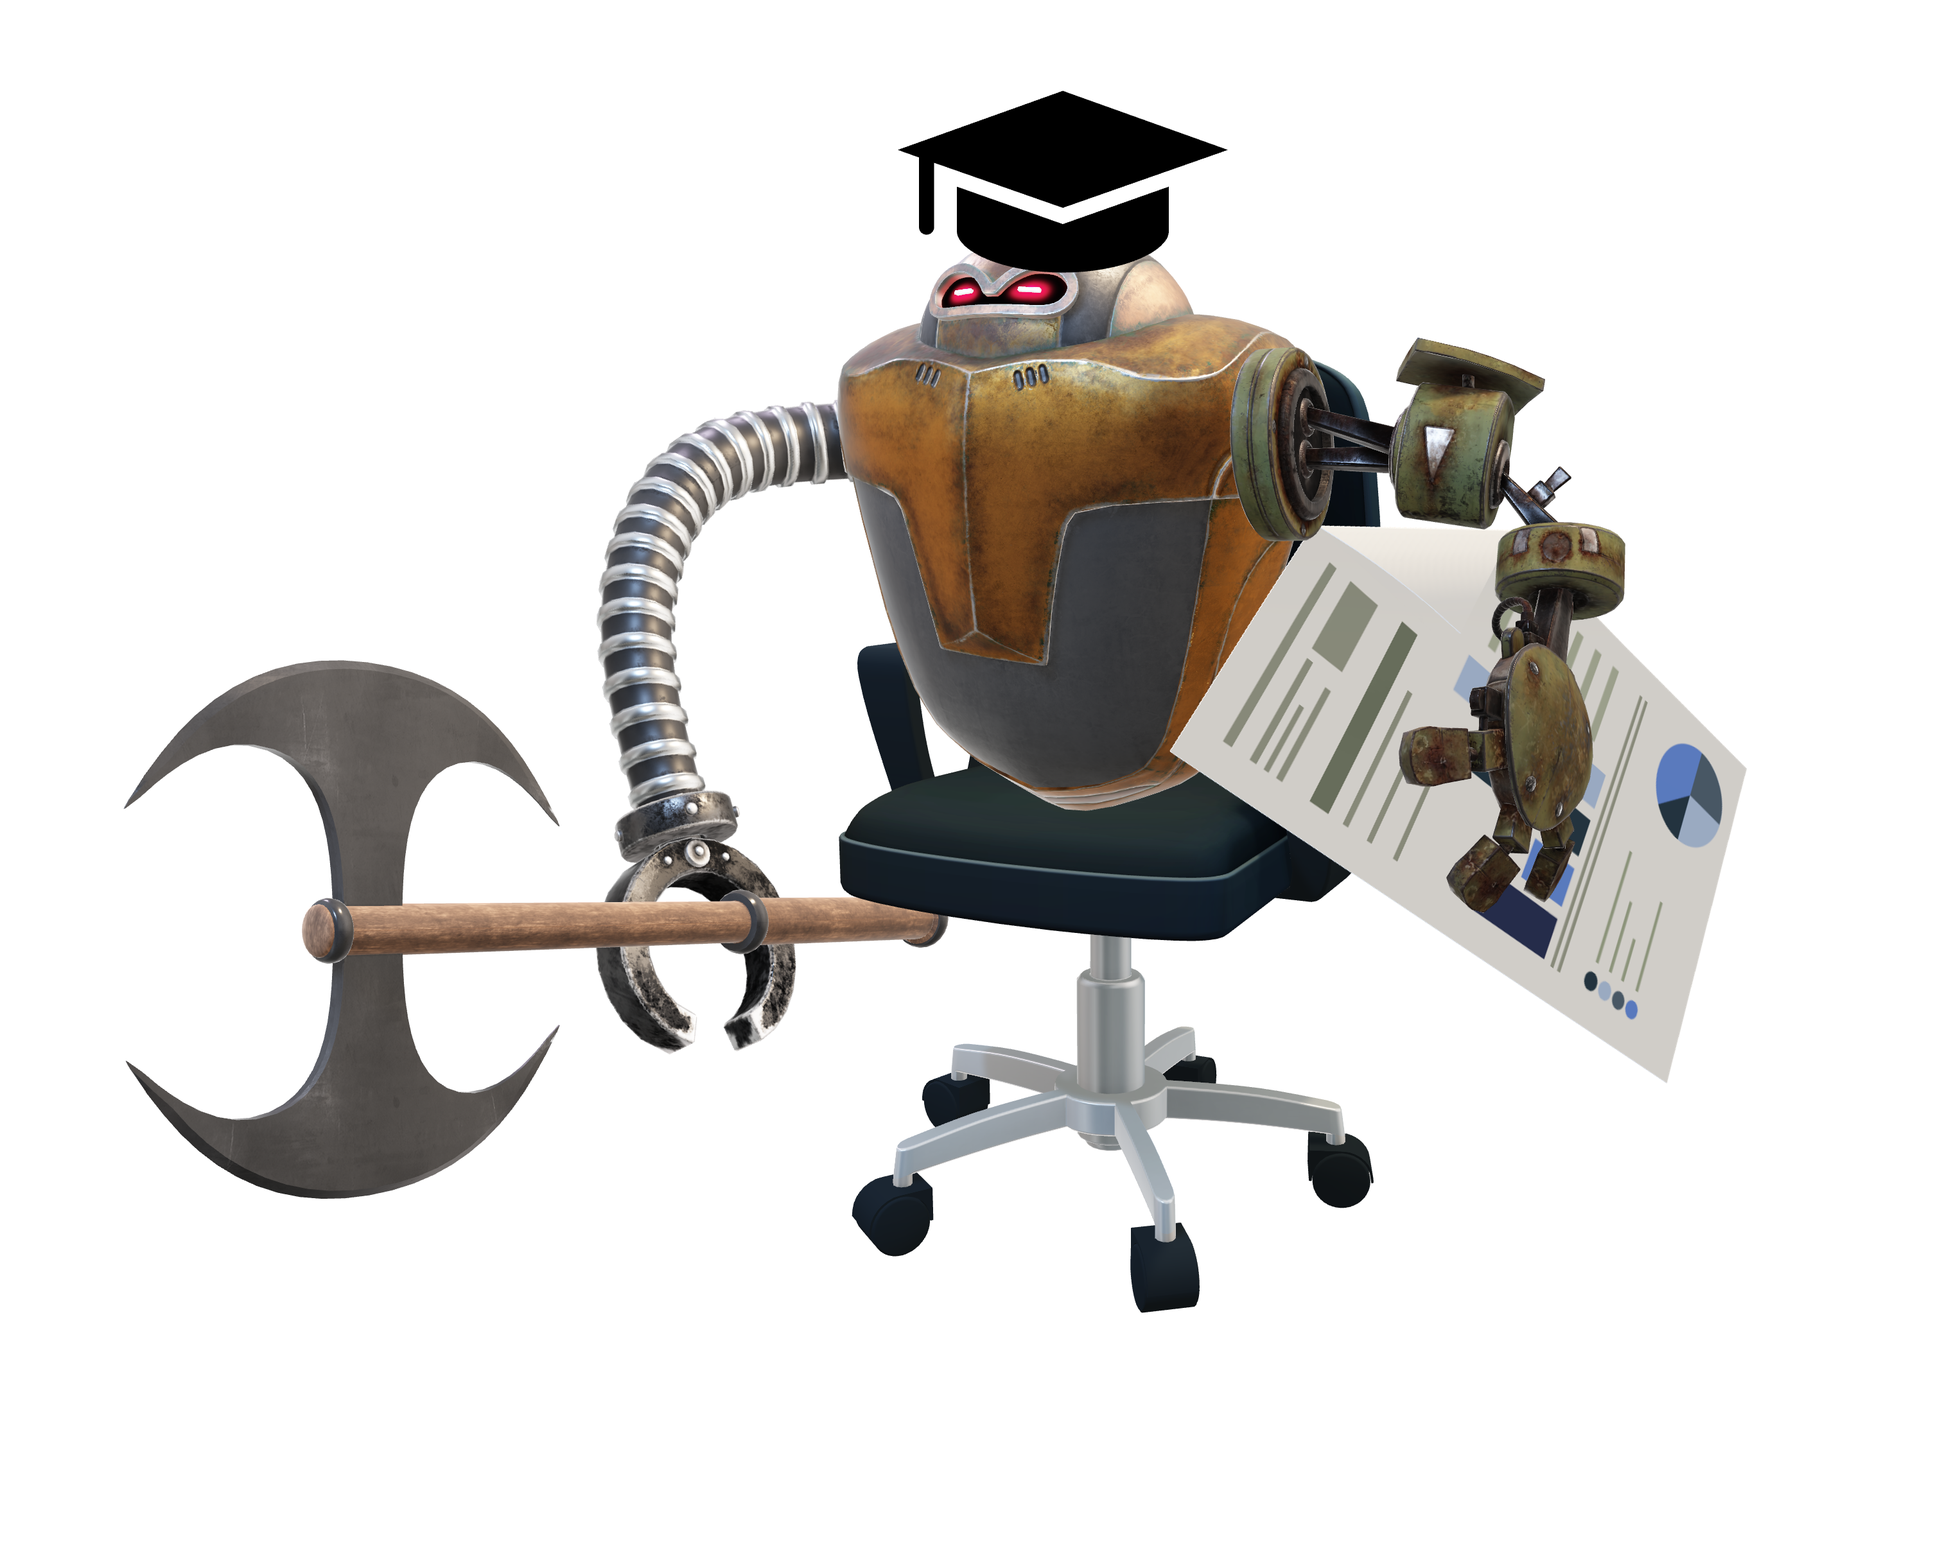
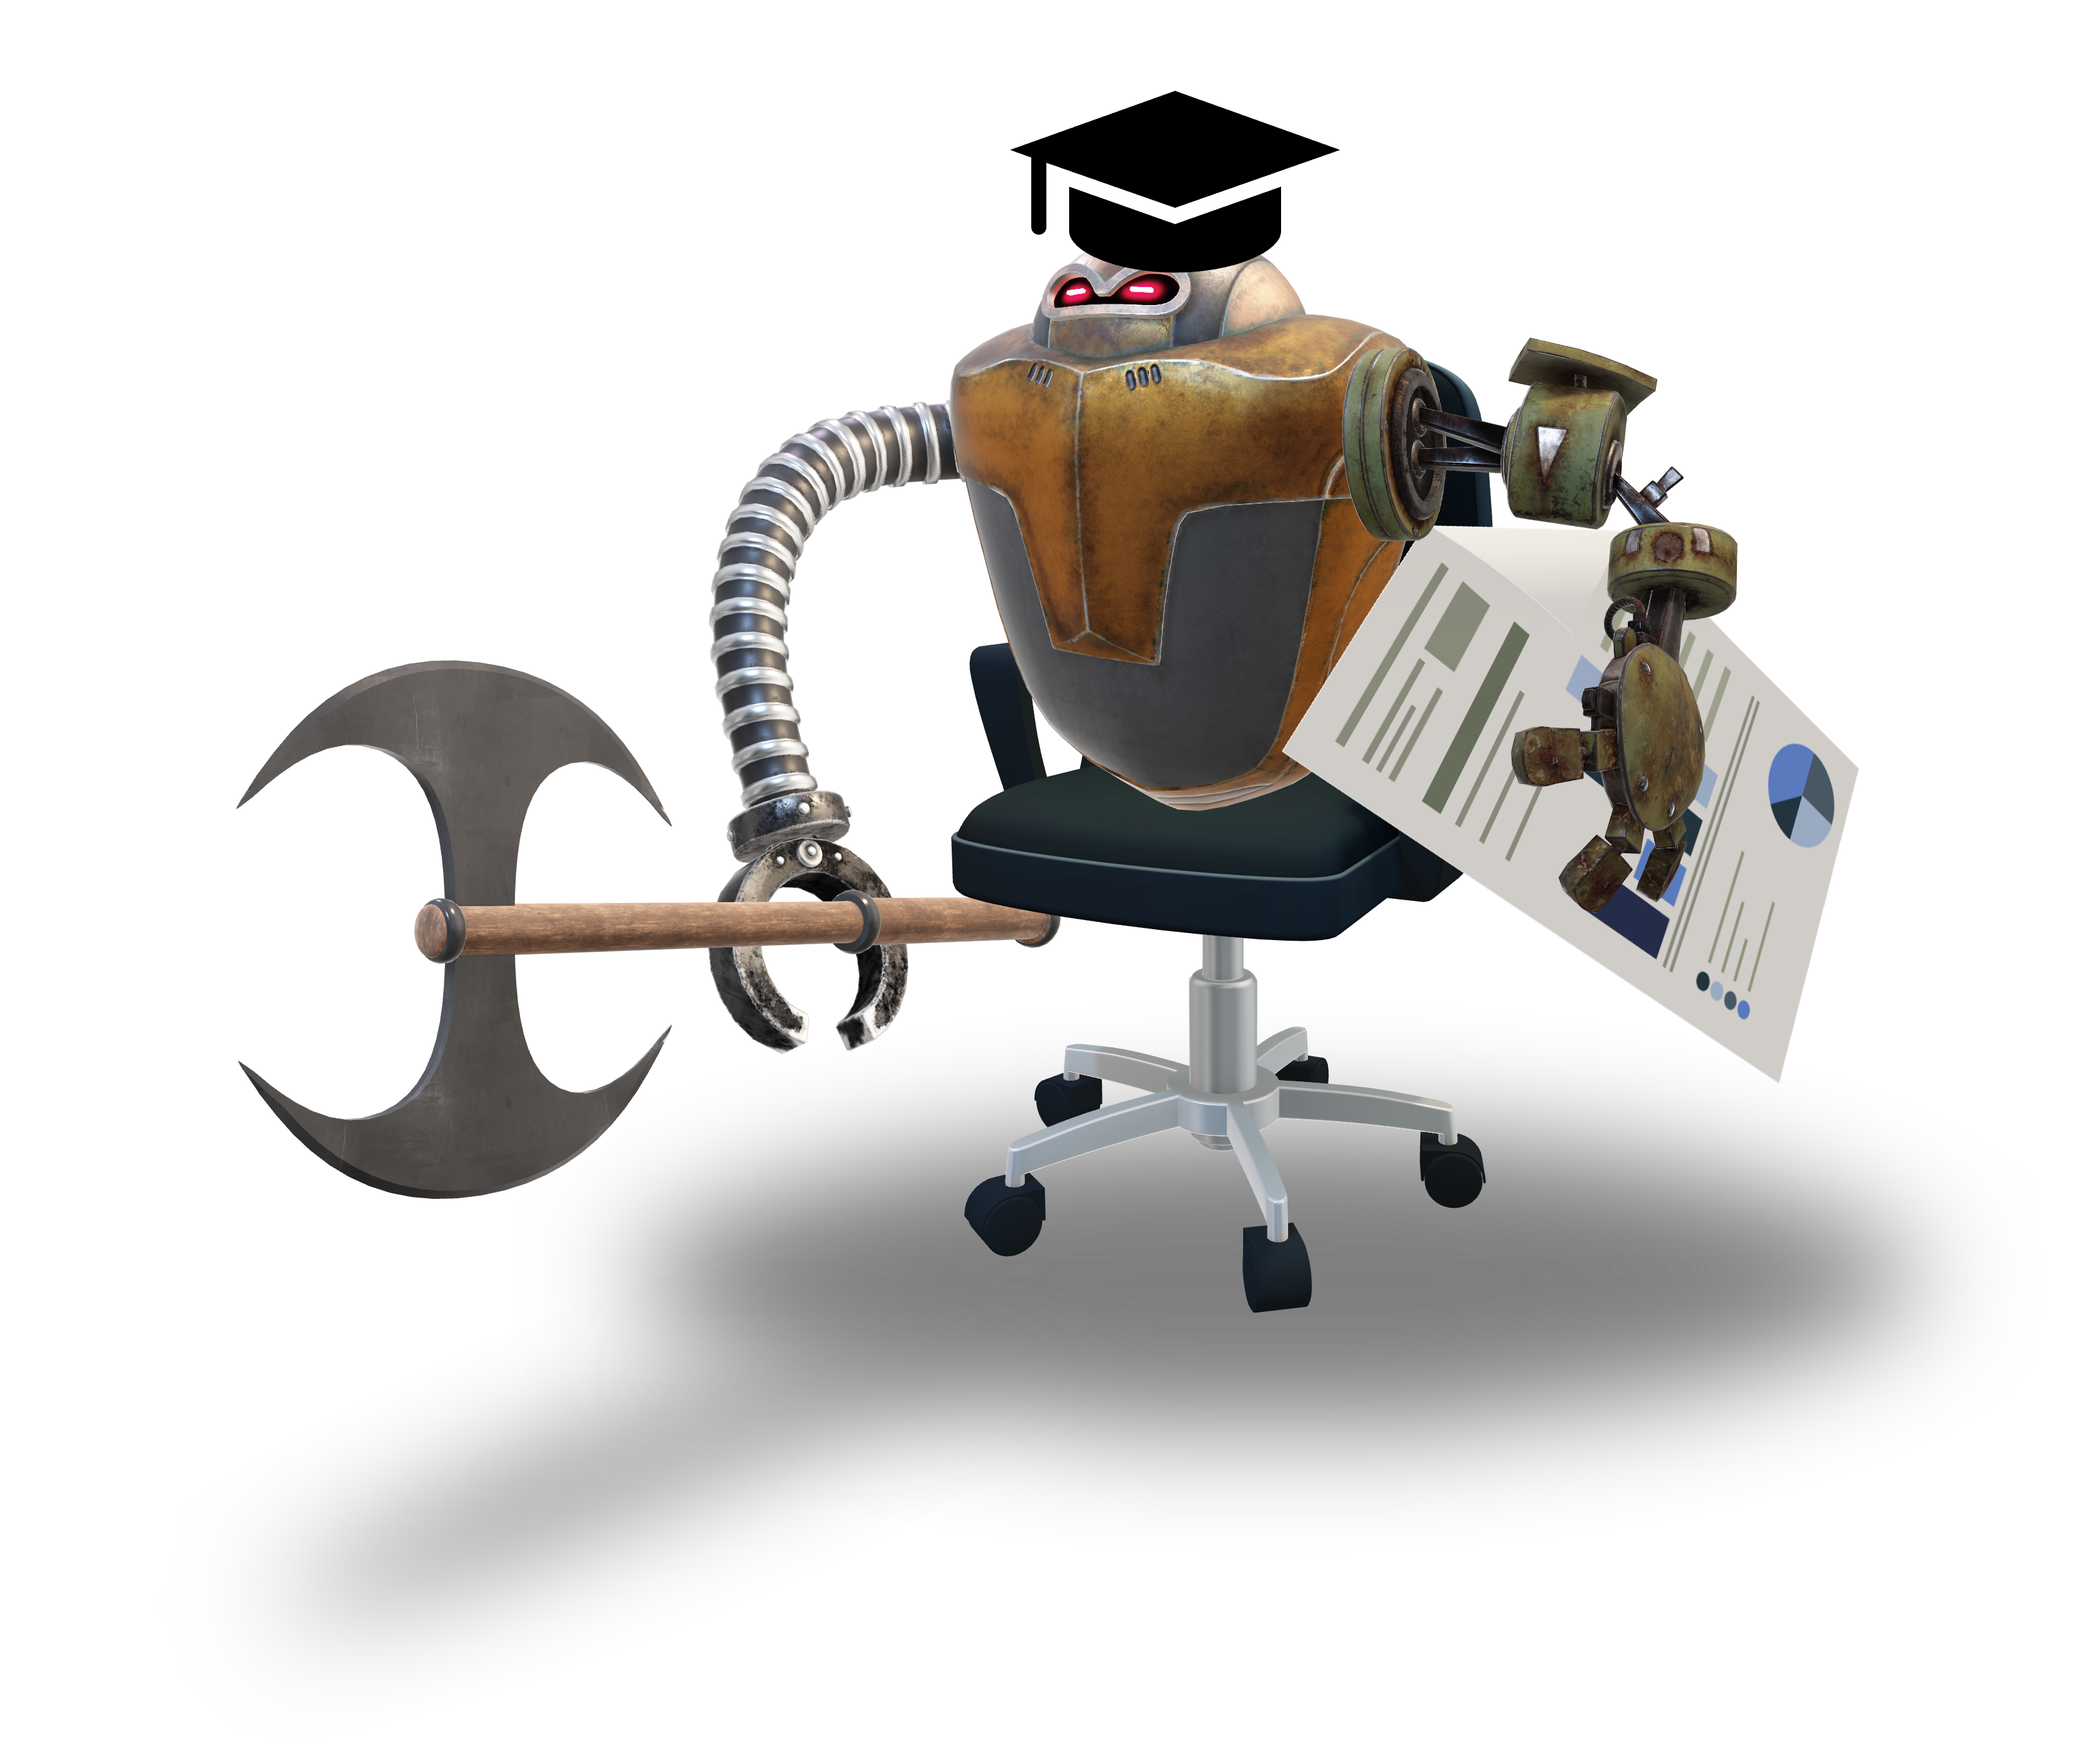
minor graphic corrections

diff --git a/src/main.js b/src/main.js
@@ -145,7 +145,7 @@ import { sound } from "@pixi/sound";
     const michi = new Sprite(Assets.get("michi"));
     michi.label = "michi";
     michi.anchor.set(0.5);
-    michi.scale.set(2);
+    michi.scale.set(0.8);
     michi.y = app.screen.height - app.screen.height / 4;
     michi.x = app.screen.width - app.screen.width * 0.99;
     app.stage.addChild(michi);
@@ -561,12 +561,13 @@ import { sound } from "@pixi/sound";
     enemy_position = 4,
     enemy_scale = 0.1,
     arena = "arena1",
+    enemy_Height = 4,
   }) {
     // Gegnergenerierung
     const enemy = new Sprite(Assets.get(enemy_str));
     enemy.anchor.set(0.5);
     enemy.scale.set(enemy_scale);
-    enemy.y = app.screen.height / 4;
+    enemy.y = app.screen.height / enemy_Height;
     enemy.x = app.screen.width + 60;
     app.stage.addChild(enemy);
     curr_enemy = enemy;
@@ -729,14 +730,17 @@ import { sound } from "@pixi/sound";
       enemy_position: 3,
       arena: "arena2",
     });
+
     sound.stop("background");
     sound.play("background2");
     await executeFight({
       enemy_str: "bachelor",
       title: "Wirtschaftswissenschaften",
       question_map_list: [bachelorfrage1, bachelorfrage2],
-      enemy_position: 3,
       arena: "arena3",
+      enemy_position: 3,
+      enemy_Height: 3,
+      enemy_scale: 0.12,
     });
     sound.stop("background2");
     sound.play("background4");
@@ -793,6 +797,7 @@ import { sound } from "@pixi/sound";
       question_map_list: [fabrikfrage2, fabrikfrage1],
       enemy_position: 3,
       enemy_scale: 0.25,
+      enemy_Height: 3,
     });
 
     sound.stop("background3");
